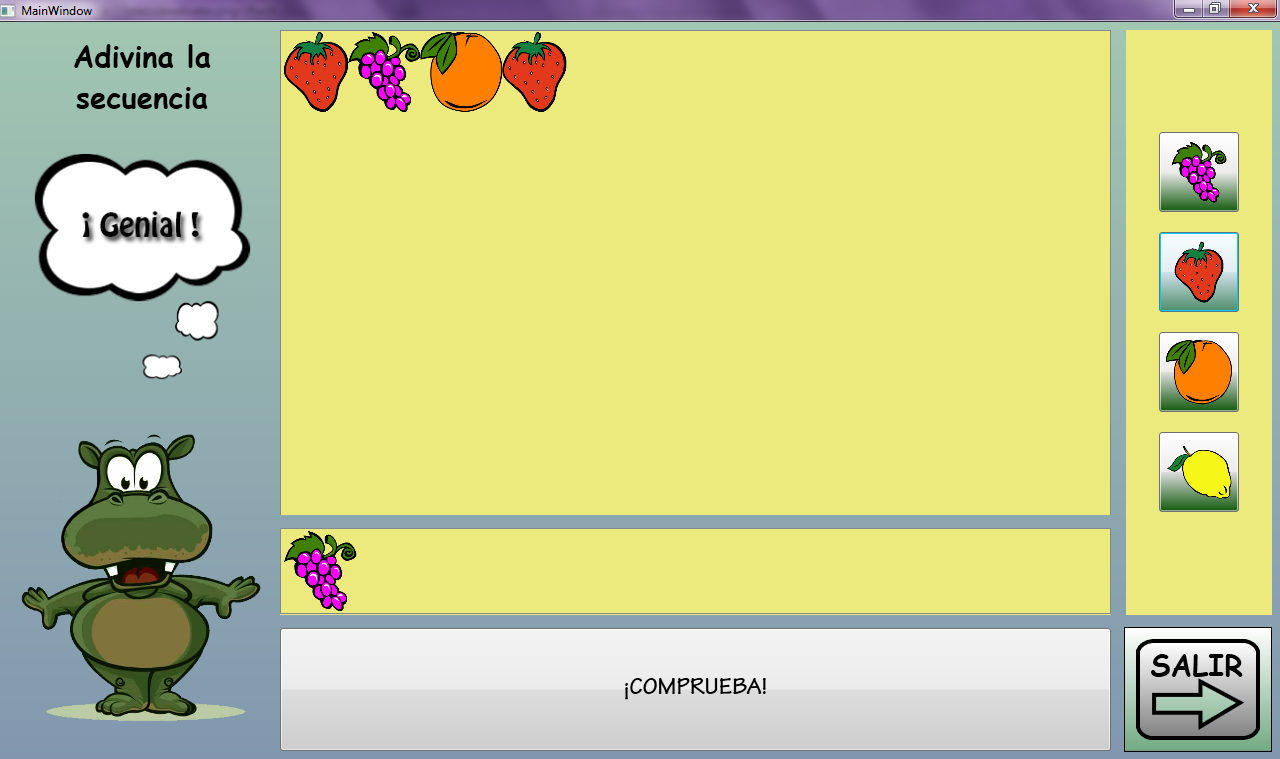
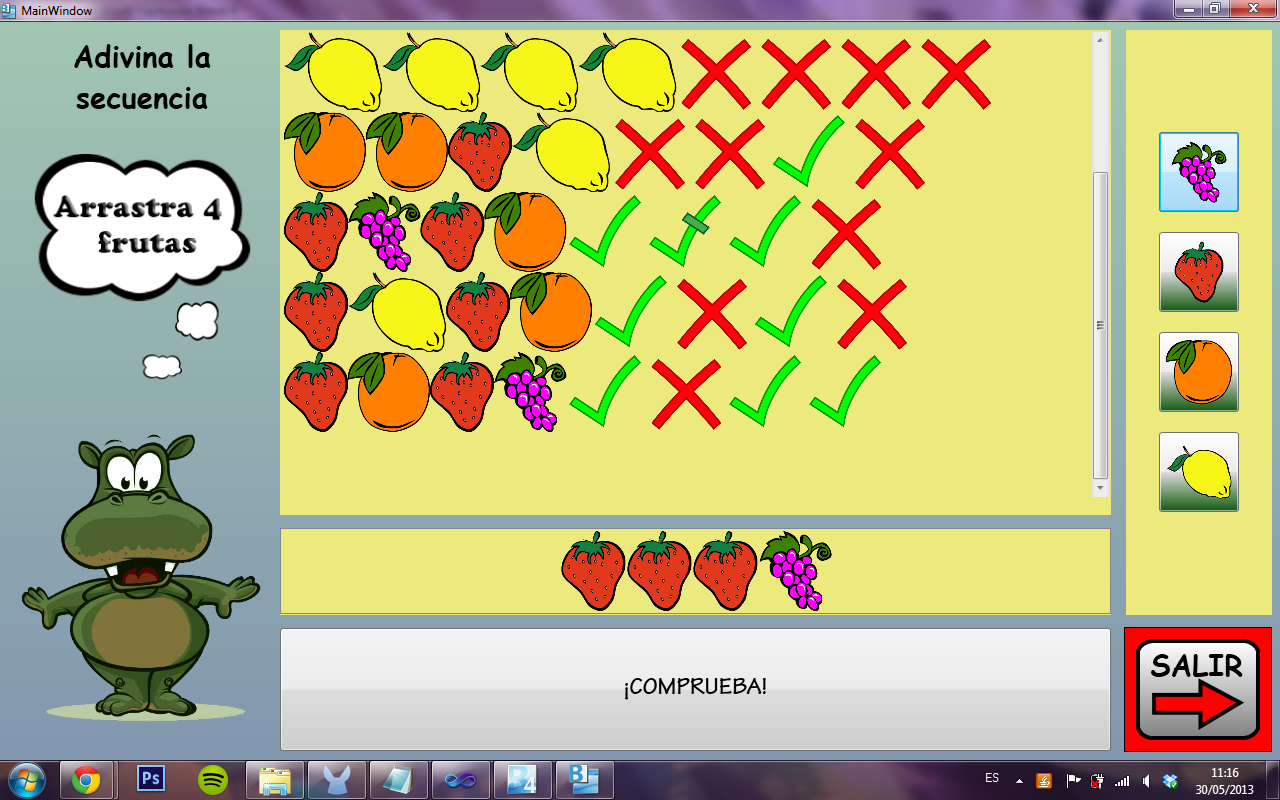
version 9 casi terminado

diff --git a/WpfApplication1/MainWindow.xaml b/WpfApplication1/MainWindow.xaml
@@ -5,7 +5,7 @@
 	x:Class="WpfApplication1.MainWindow"
 	x:Name="Window"
 	Title="MainWindow"
-	Width="1000" Height="800" IsEnabled="True" SizeToContent="Manual" xmlns:my="clr-namespace:controlSalir;assembly=controlSalir">
+	Width="1014" Height="746" IsEnabled="True" SizeToContent="Manual" xmlns:my="clr-namespace:controlSalir;assembly=controlSalir" WindowStartupLocation="CenterScreen" WindowState="Maximized">
 	<Window.OpacityMask>
 		<LinearGradientBrush EndPoint="0.5,1" StartPoint="0.5,0">
 			<GradientStop Color="Black" Offset="0"/>
@@ -33,14 +33,14 @@
 			<ColumnDefinition/>
 		</Grid.ColumnDefinitions>
 		<StackPanel Margin="280,8,169,245" Background="#FFEDEA7D" Name="stackArriba">
-            <ListView Name="listView2" Background="#FFEDEA7D" Height="185">
-                <ListView.ItemsPanel>
-                    <ItemsPanelTemplate>
-                        <StackPanel Orientation="Vertical" CanVerticallyScroll="False"></StackPanel>
-                    </ItemsPanelTemplate>
-                </ListView.ItemsPanel>
-            </ListView>
-        </StackPanel>
+			<ListView x:Name="listView2" Background="#FFEDEA7D" VerticalContentAlignment="Center" Height="469" RenderTransformOrigin="0.5,0.5" BorderBrush="#00828790">
+				<ListView.ItemsPanel>
+					<ItemsPanelTemplate>
+						<StackPanel Orientation="Vertical" CanVerticallyScroll="True"/>
+					</ItemsPanelTemplate>
+				</ListView.ItemsPanel>
+			</ListView>
+		</StackPanel>
         <Grid Margin="0,8,8,145" Width="146" Background="#FFEDEA7D" HorizontalAlignment="Right">
 			<Grid.RowDefinitions>
 				<RowDefinition Height="0.498*"/>
@@ -59,7 +59,7 @@
 						<GradientStop Color="#FF145A0F" Offset="1"/>
 					</LinearGradientBrush>
 				</Button.Background>
-				<Image Height="60.846" Width="68" Source="Gerald_G_Simple_Fruit_(FF_Menu).png" MouseDown="inicioArrastrar" />
+				<Image Height="60.846" Width="68" Source="Gerald_G_Simple_Fruit_(FF_Menu).png" MouseDown="inicioArrastrar" Name="imgUvas" AllowDrop="False" />
 			</Button>
 			<Button Margin="0" Grid.Row="2" Width="80" d:LayoutOverrides="Width, GridBox" HorizontalAlignment="Center" VerticalAlignment="Center" Height="80">
 				<Button.Background>
@@ -70,7 +70,7 @@
 						<GradientStop Color="#FF145A0F" Offset="1"/>
 					</LinearGradientBrush>
 				</Button.Background>
-				<Image Height="60.846" Width="58" Source="Gerald_G_Simple_Fruit_(FF_Menu)_1.png" MouseDown="inicioArrastrar" />
+				<Image Height="60.846" Width="58" Source="Gerald_G_Simple_Fruit_(FF_Menu)_1.png" MouseDown="inicioArrastrar" Name="imgFresa" />
 			</Button>
 			<Button Margin="0" Grid.Row="4" Width="80" d:LayoutOverrides="Width, GridBox" HorizontalAlignment="Center" VerticalAlignment="Center" Height="80">
 				<Button.Background>
@@ -81,7 +81,7 @@
 						<GradientStop Color="#FF145A0F" Offset="1"/>
 					</LinearGradientBrush>
 				</Button.Background>
-				<Image Height="62" Width="65" Source="Gerald_G_Simple_Fruit_(FF_Menu)_3.png" MouseDown="inicioArrastrar" />
+				<Image Height="62" Width="65" Source="Gerald_G_Simple_Fruit_(FF_Menu)_3.png" MouseDown="inicioArrastrar" Name="imgLimon" />
 			</Button>
 			<Button Margin="0" Grid.Row="3" Width="80" d:LayoutOverrides="Width, GridBox" HorizontalAlignment="Center" VerticalAlignment="Center" Height="80">
 				<Button.Background>
@@ -92,7 +92,7 @@
 						<GradientStop Color="#FF145A0F" Offset="1"/>
 					</LinearGradientBrush>
 				</Button.Background>
-				<Image Height="64.338" Width="66" Source="Gerald_G_Simple_Fruit_(FF_Menu)_4.png" MouseDown="inicioArrastrar" />
+				<Image Height="64.338" Width="66" Source="Gerald_G_Simple_Fruit_(FF_Menu)_4.png" MouseDown="inicioArrastrar" Name="imgNaranja" />
 			</Button>
         </Grid>
 		
@@ -102,20 +102,20 @@
 				<RowDefinition Height="351"/>
 			</Grid.RowDefinitions>
 			<Image Margin="17,0,8,0" Grid.Row="1" Source="HipoSolo.png" Name="avatar" />
-			<Image Margin="8,0,0,8" Source="bocadilloGenial.png"/>
+			<Image Margin="8,0,0,8" Source="bocadilloInserta.png"/>
 		</Grid>
         <Button Content=" ¡COMPRUEBA! " FontWeight="Bold" FontFamily="Tekton Pro" FontSize="24" VerticalContentAlignment="Center" Margin="280,0,169,8.943" VerticalAlignment="Bottom" Height="123.114" Click="comprobar" />
         <StackPanel Margin="280,0,169,145" Name="stackPanel1" Height="87" VerticalAlignment="Bottom" Background="#FFEBE87D">
             <ListView Height="86" Name="listView1" Drop="soltar" Background="#FFEDEA7D" AllowDrop="True" SelectionMode="Extended" HorizontalContentAlignment="Center" ToolTip="Arrastra las frutas aquí">
             <ListView.ItemsPanel>
                 <ItemsPanelTemplate>
-                    <StackPanel Orientation="Horizontal" CanVerticallyScroll="False"></StackPanel>
+                        <StackPanel Orientation="Horizontal" HorizontalAlignment="Center" CanVerticallyScroll="False"></StackPanel>
                 </ItemsPanelTemplate>
             </ListView.ItemsPanel>
             </ListView>
         </StackPanel>
         <my:MainControl Name="btnSalir" MouseEnter="resaltar" MouseLeave="desresaltar" Height="141" VerticalAlignment="Bottom" Width="164" HorizontalAlignment="Right" MouseUp="salir" />
-        <TextBox x:Name="boxAdivina" HorizontalAlignment="Left" Height="116" Margin="8,10,0,0" TextWrapping="Wrap" Text="Adivina la secuencia" VerticalAlignment="Top" Width="268" FontFamily="Comic Sans MS" FontSize="29.333" FontWeight="Bold" Background="#00000000" HorizontalContentAlignment="Center">
+        <TextBox x:Name="boxAdivina" HorizontalAlignment="Left" Height="89" Margin="8,10,0,0" TextWrapping="Wrap" Text="Adivina la secuencia" VerticalAlignment="Top" Width="268" FontFamily="Comic Sans MS" FontSize="29.333" FontWeight="Bold" Background="#00000000" HorizontalContentAlignment="Center">
         	<TextBox.BorderBrush>
         		<LinearGradientBrush EndPoint="0,20" MappingMode="Absolute" StartPoint="0,0">
         			<GradientStop Color="#00ABADB3" Offset="0.05"/>

diff --git a/WpfApplication1/SelAvatar.xaml b/WpfApplication1/SelAvatar.xaml
@@ -5,7 +5,7 @@
 	x:Class="WpfApplication1.Window1"
 	x:Name="Window"
 	Title="Window1"
-	Width="800" Height="600">
+	Width="800" Height="600" WindowStartupLocation="CenterScreen" WindowState="Maximized">
 
 	<Grid x:Name="LayoutRoot">
 		<Grid.Background>

diff --git a/WpfApplication1/MainWindow.xaml.cs b/WpfApplication1/MainWindow.xaml.cs
@@ -20,14 +20,18 @@ namespace WpfApplication1
 
         private LinearGradientBrush colorIni;
         int contador = 0;
-        List<Image> resultado=new List<Image>(); 
-
-
+        List<Image> resultado=new List<Image>();
+        List<Image> secuenciaCorrecta = new List<Image>();
+        int contCheck = 0;
+                
         Image imaCheck = new Image();
         BitmapImage BitmapCheck = new BitmapImage();
 
         Image imaCross = new Image();
         BitmapImage BitmapCross = new BitmapImage();
+
+        Image imaOtro = new Image();
+        BitmapImage BitmapOtro = new BitmapImage();
 
 
 		public MainWindow(Image img)
@@ -50,6 +54,16 @@ namespace WpfApplication1
             BitmapCross.EndInit();
             BitmapCross.DecodePixelWidth = 80;
             imaCross.Source = BitmapCross;
+
+            //para la imagen de la cruz
+            imaOtro.Width = 80;
+            BitmapOtro.BeginInit();
+            BitmapOtro.UriSource = new Uri(@"check2.png", UriKind.Relative);
+            BitmapOtro.EndInit();
+            BitmapOtro.DecodePixelWidth = 80;
+            imaOtro.Source = BitmapOtro;
+
+            generarSecuencia();
        	}
 
         private void resaltar(object sender, MouseEventArgs e)
@@ -75,6 +89,7 @@ namespace WpfApplication1
         {
             DataObject dataO = new DataObject(((Image)sender));
             DragDrop.DoDragDrop((Image)sender, dataO, DragDropEffects.Move);
+            
         }
 
         private void soltar(object sender, DragEventArgs e)
@@ -108,18 +123,21 @@ namespace WpfApplication1
                 {
                     Image im = new Image();
                     aniadir(st, im, i);
-
                 }
 
-                for (int i = 4; i < 8; i++)
+                for (int i = 0; i < 4; i++)
                 {
                     Image im = new Image();
                     aniadirComprobacion(st, im, i);
-
                 }
 
-                listView2.Items.Add(st);
-         
+                if (contCheck == 4)
+                {
+                    listView1.AllowDrop = false;
+                }
+                else contCheck = 0;
+
+                listView2.Items.Add(st);         
 
                 listView1.Items.Clear();
                 contador = 0;
@@ -133,24 +151,83 @@ namespace WpfApplication1
         {
             img.Source = resultado[posicion].Source;
             img.Height = 80;
-            st.Children.Add(img);
-      
+            st.Children.Add(img);      
         }
 
 
         private void aniadirComprobacion(StackPanel st, Image img, int posicion)
         {
-            
-            //aquí deberia ir la logica
-            //creo que deberiamos poner de momento que si esta bien un check y si esta mal una cruz
-            //y ya veremos si metemos lo del check con el palito, lo de si esta pero en una posicion que no debe y no nos complicamos
-
-            img.Source = imaCheck.Source;
+                         
+            Image aux = new Image();
+            aux = obtenerCheck(comprobar(posicion));
+            img.Source = aux.Source;
             img.Height = 80;
-            st.Children.Add(img);
+            st.Children.Add(img);            
+        }
+
+        private void generarSecuencia()
+        {
+            Random random = new Random();
+            for(int i=0; i<4;i++)
+            {
+                secuenciaCorrecta.Add(obtenerImagen(random.Next(1, 4)));
+            }
 
         }
 
+        private Image obtenerImagen(int numero)
+        {
+            Image fruta = null;
 
+            switch(numero){
+                case 1: fruta = imgUvas;                    
+                    break;
+                case 2: fruta = imgFresa;
+                    break;
+                case 3: fruta = imgNaranja;
+                    break;
+                case 4: fruta = imgLimon;
+                    break;
+            }
+            return fruta;
+        }
+
+        private Image obtenerCheck(int numero)
+        {
+            Image check = null;
+
+            switch (numero)
+            {
+                case 1: check = imaCheck;
+                    break;
+                case 2: check = imaOtro;
+                    break;
+                case 0: check = imaCross;
+                    break; 
+            }
+            return check;
+        }
+
+
+        private int comprobar(int pResult)
+        {
+            int valor = 0;
+                                    
+            if (resultado[pResult].Source.Equals(secuenciaCorrecta[0].Source)
+                || resultado[pResult].Source.Equals(secuenciaCorrecta[1].Source)
+                || resultado[pResult].Source.Equals(secuenciaCorrecta[2].Source)
+                || resultado[pResult].Source.Equals(secuenciaCorrecta[3].Source))                
+            {
+                if (resultado[pResult].Equals(secuenciaCorrecta[pResult]))
+                {
+                    valor = 1;
+                    contCheck++;
+                }
+                else valor = 2;                         
+            }            
+            return valor;
+        }
+        
 	}
+
 }

diff --git a/WpfApplication1/Secuencia.cs b/WpfApplication1/Secuencia.cs
@@ -1,0 +1,12 @@
+using System;
+using System.Collections.Generic;
+using System.Linq;
+using System.Text;
+
+namespace WpfApplication1
+{
+    class Secuencia
+    {
+
+    }
+}

diff --git a/WpfApplication1/ArrayList.cs b/WpfApplication1/ArrayList.cs
@@ -1,0 +1,1 @@
+
